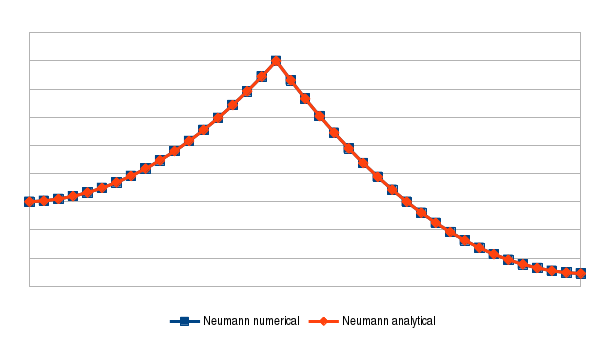
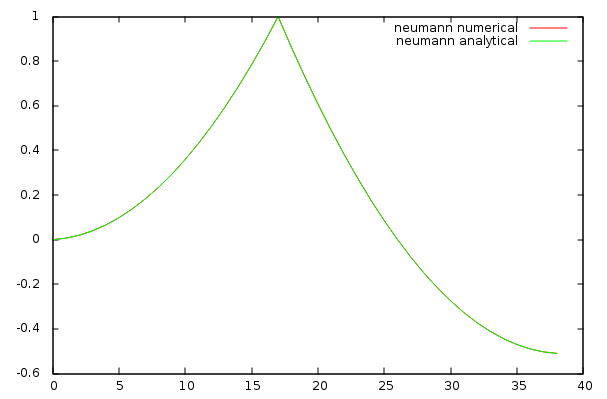
all dec tests ok

Changed region(s): [[0.0298, 0.0294, 0.9818, 1.0], [0.7736, 0.7941, 0.8926, 0.8824]]

diff --git a/tests/dec/testLinearStructure.cpp b/tests/dec/testLinearStructure.cpp
@@ -48,22 +48,20 @@ void test_linear_structure()
     calculus.initKSpace(domain);
 
     for (int kk=20; kk>0; kk--)
-        calculus.insertSCell(calculus.myKSpace.sCell(Point(0,kk), kk%2 == 1 ? Calculus::KSpace::NEG : Calculus::KSpace::POS));
+        calculus.insertSCell( calculus.myKSpace.sCell(Point(0,kk), kk%2 != 0 ? Calculus::KSpace::NEG : Calculus::KSpace::POS), kk%2 != 0 ? -1 : 1 );
     for (int kk=0; kk<10; kk++)
-        calculus.insertSCell(calculus.myKSpace.sCell(Point(kk,0)));
+        calculus.insertSCell( calculus.myKSpace.sCell(Point(kk,0)) );
     for (int kk=0; kk<10; kk++)
-        calculus.insertSCell(calculus.myKSpace.sCell(Point(10,kk)));
-    calculus.insertSCell(calculus.myKSpace.sCell(Point(10,10)));
-    calculus.insertSCell(calculus.myKSpace.sCell(Point(9,10), Calculus::KSpace::NEG));
+        calculus.insertSCell( calculus.myKSpace.sCell(Point(10,kk)), kk%2 != 0 ? -1 : 1 );
+    calculus.insertSCell( calculus.myKSpace.sCell(Point(10,10)) );
+    calculus.insertSCell( calculus.myKSpace.sCell(Point(9,10), Calculus::KSpace::NEG) );
     for (int kk=10; kk<20; kk++)
-        calculus.insertSCell(calculus.myKSpace.sCell(Point(8,kk)));
-    calculus.insertSCell(calculus.myKSpace.sCell(Point(8,20)));
-    calculus.insertSCell(calculus.myKSpace.sCell(Point(9,20)));
-    calculus.insertSCell(calculus.myKSpace.sCell(Point(10,20)));
-    calculus.insertSCell(calculus.myKSpace.sCell(Point(11,20)));
+        calculus.insertSCell( calculus.myKSpace.sCell(Point(8,kk)), kk%2 != 0 ? -1 : 1 );
+    for (int kk=8; kk<12; kk++)
+        calculus.insertSCell( calculus.myKSpace.sCell(Point(kk,20)) );
     for (int kk=20; kk>0; kk--)
-        calculus.insertSCell(calculus.myKSpace.sCell(Point(12,kk), kk%2 == 1 ? Calculus::KSpace::NEG : Calculus::KSpace::POS));
-    calculus.insertSCell(calculus.myKSpace.sCell(Point(12,0)));
+        calculus.insertSCell( calculus.myKSpace.sCell(Point(12,kk), kk%2 != 0 ? Calculus::KSpace::NEG : Calculus::KSpace::POS), kk%2 != 0 ? -1 : 1 );
+    calculus.insertSCell( calculus.myKSpace.sCell(Point(12,0)) );
     //! [neumann-creation]
 
     trace.info() << calculus << endl;
@@ -105,7 +103,8 @@ void test_linear_structure()
         solver.compute(laplace);
         Calculus::PrimalForm0 solved_solution = solver.solve(dirac);
         //! [neumann-solve]
-        solved_solution.myContainer /= solved_solution.myContainer.maxCoeff();
+        solved_solution.myContainer.array() -= solved_solution.myContainer(0);
+        solved_solution.myContainer.array() /= solved_solution.myContainer.maxCoeff();
 
         Calculus::PrimalForm0 analytic_solution(calculus);
         {
@@ -125,10 +124,16 @@ void test_linear_structure()
 
         trace.info() << solver.isValid() << " " << solver.myLinearAlgebraSolver.info() << endl;
 
+        {
+            std::ofstream handle("linear_structure_neumann.dat");
+            for (Calculus::Index kk=0; kk<analytic_solution.length(); kk++)
+                handle << solved_solution.myContainer(kk) << " " << analytic_solution.myContainer(kk) << endl;
+        }
+
         for (Calculus::Index kk=0; kk<analytic_solution.length(); kk++)
         {
             trace.info() << solved_solution.myContainer(kk) << " " << analytic_solution.myContainer(kk) << endl;
-            FATAL_ERROR(abs(solved_solution.myContainer(kk) - analytic_solution.myContainer(kk)) < 1e-5);
+            FATAL_ERROR( abs(solved_solution.myContainer(kk) - analytic_solution.myContainer(kk)) < 1e-5 );
         }
 
         {
@@ -189,7 +194,7 @@ void test_linear_structure()
         solver.compute(laplace);
         Calculus::PrimalForm0 solved_solution = solver.solve(dirac);
         //! [dirichlet-solve]
-        solved_solution.myContainer /= solved_solution.myContainer.maxCoeff();
+        solved_solution.myContainer.array() /= solved_solution.myContainer.maxCoeff();
 
         Calculus::PrimalForm0 analytic_solution(calculus);
         {
@@ -207,10 +212,16 @@ void test_linear_structure()
 
         trace.info() << solver.isValid() << " " << solver.myLinearAlgebraSolver.info() << endl;
 
+        {
+            std::ofstream handle("linear_structure_dirichlet.dat");
+            for (Calculus::Index kk=0; kk<analytic_solution.length(); kk++)
+                handle << solved_solution.myContainer(kk) << " " << analytic_solution.myContainer(kk) << endl;
+        }
+
         for (Calculus::Index kk=0; kk<analytic_solution.length(); kk++)
         {
             trace.info() << solved_solution.myContainer(kk) << " " << analytic_solution.myContainer(kk) << endl;
-            FATAL_ERROR(abs(solved_solution.myContainer(kk) - analytic_solution.myContainer(kk)) < 1e-5);
+            FATAL_ERROR( abs(solved_solution.myContainer(kk) - analytic_solution.myContainer(kk)) < 1e-5 );
         }
 
         {
@@ -253,14 +264,10 @@ void test_linear_ring()
     Calculus calculus;
     calculus.initKSpace(domain);
 
-    for (int kk=-8; kk<10; kk++) calculus.insertSCell( calculus.myKSpace.sCell(Point(-8,kk), kk%2 == 0 ? Calculus::KSpace::POS : Calculus::KSpace::NEG) );
+    for (int kk=-8; kk<10; kk++) calculus.insertSCell( calculus.myKSpace.sCell(Point(-8,kk), kk%2 == 0 ? Calculus::KSpace::POS : Calculus::KSpace::NEG), kk%2 != 0 ? -1 : 1 );
     for (int kk=-8; kk<10; kk++) calculus.insertSCell( calculus.myKSpace.sCell(Point(kk,10), kk%2 == 0 ? Calculus::KSpace::POS : Calculus::KSpace::NEG) );
-    for (int kk=10; kk>-8; kk--) calculus.insertSCell( calculus.myKSpace.sCell(Point(10,kk)) );
+    for (int kk=10; kk>-8; kk--) calculus.insertSCell( calculus.myKSpace.sCell(Point(10,kk)), kk%2 != 0 ? -1 : 1 );
     for (int kk=10; kk>-8; kk--) calculus.insertSCell( calculus.myKSpace.sCell(Point(kk,-8)) );
-    calculus.insertSCell( calculus.myKSpace.sSpel(Point(-4,-4)) );
-    calculus.insertSCell( calculus.myKSpace.sSpel(Point(-4,4)) );
-    calculus.insertSCell( calculus.myKSpace.sSpel(Point(4,4)) );
-    calculus.insertSCell( calculus.myKSpace.sSpel(Point(4,-4)) );
 
     {
         trace.info() << calculus << endl;
@@ -270,22 +277,34 @@ void test_linear_ring()
         board.saveSVG("ring_structure.svg");
     }
 
+    const Calculus::PrimalDerivative0 d0 = calculus.derivative<0, PRIMAL>();
+    display_operator_info("d0", d0);
+
+    const Calculus::PrimalHodge0 h0 = calculus.primalHodge<0>();
+    display_operator_info("h0", h0);
+
+    const Calculus::DualDerivative1 d1p = calculus.derivative<1, DUAL>();
+    display_operator_info("d1p", d1p);
+
+    const Calculus::PrimalHodge1 h1 = calculus.primalHodge<1>();
+    display_operator_info("h1", h1);
+
     const Calculus::PrimalIdentity0 laplace = calculus.primalLaplace();
     display_operator_info("laplace", laplace);
 
-    const Calculus::PrimalDerivative0 d0 = calculus.derivative<0, PRIMAL>();
-    display_operator_info("primal derivative 0", d0);
-
-    const Calculus::PrimalDerivative1 d1 = calculus.derivative<1, PRIMAL>();
-    display_operator_info("primal derivative 1", d1);
-
-    const Calculus::PrimalHodge1 h1 = calculus.primalHodge<1>();
-    display_operator_info("primal hodge 1", h1);
-
-    const Calculus::DualDerivative1 d1p = calculus.derivative<1, DUAL>();
-    display_operator_info("dual derivative 1", d1p);
+    const int laplace_size = calculus.kFormLength(0, PRIMAL);
+    Eigen::MatrixXd laplace_th = Eigen::MatrixXd::Zero(laplace_size, laplace_size);
+    for (int ii=0; ii<laplace_size; ii++)
+    for (int jj=0; jj<laplace_size; jj++)
+    {
+        int delta = ii>jj ? ii-jj : jj-ii;
+        if (delta == 0) { laplace_th(ii,jj) = -2; continue; }
+        if (delta == 1 || delta == laplace_size-1) { laplace_th(ii,jj) = 1; continue; }
+    }
 
     trace.endBlock();
+
+    FATAL_ERROR( Eigen::MatrixXd(laplace.myContainer) == laplace_th );
 }
 
 
@@ -486,8 +505,8 @@ int
 main()
 {
     test_laplace_operator();
-    //test_linear_structure();
-    //test_linear_ring();
+    test_linear_ring();
+    test_linear_structure();
     return 0;
 }
 
